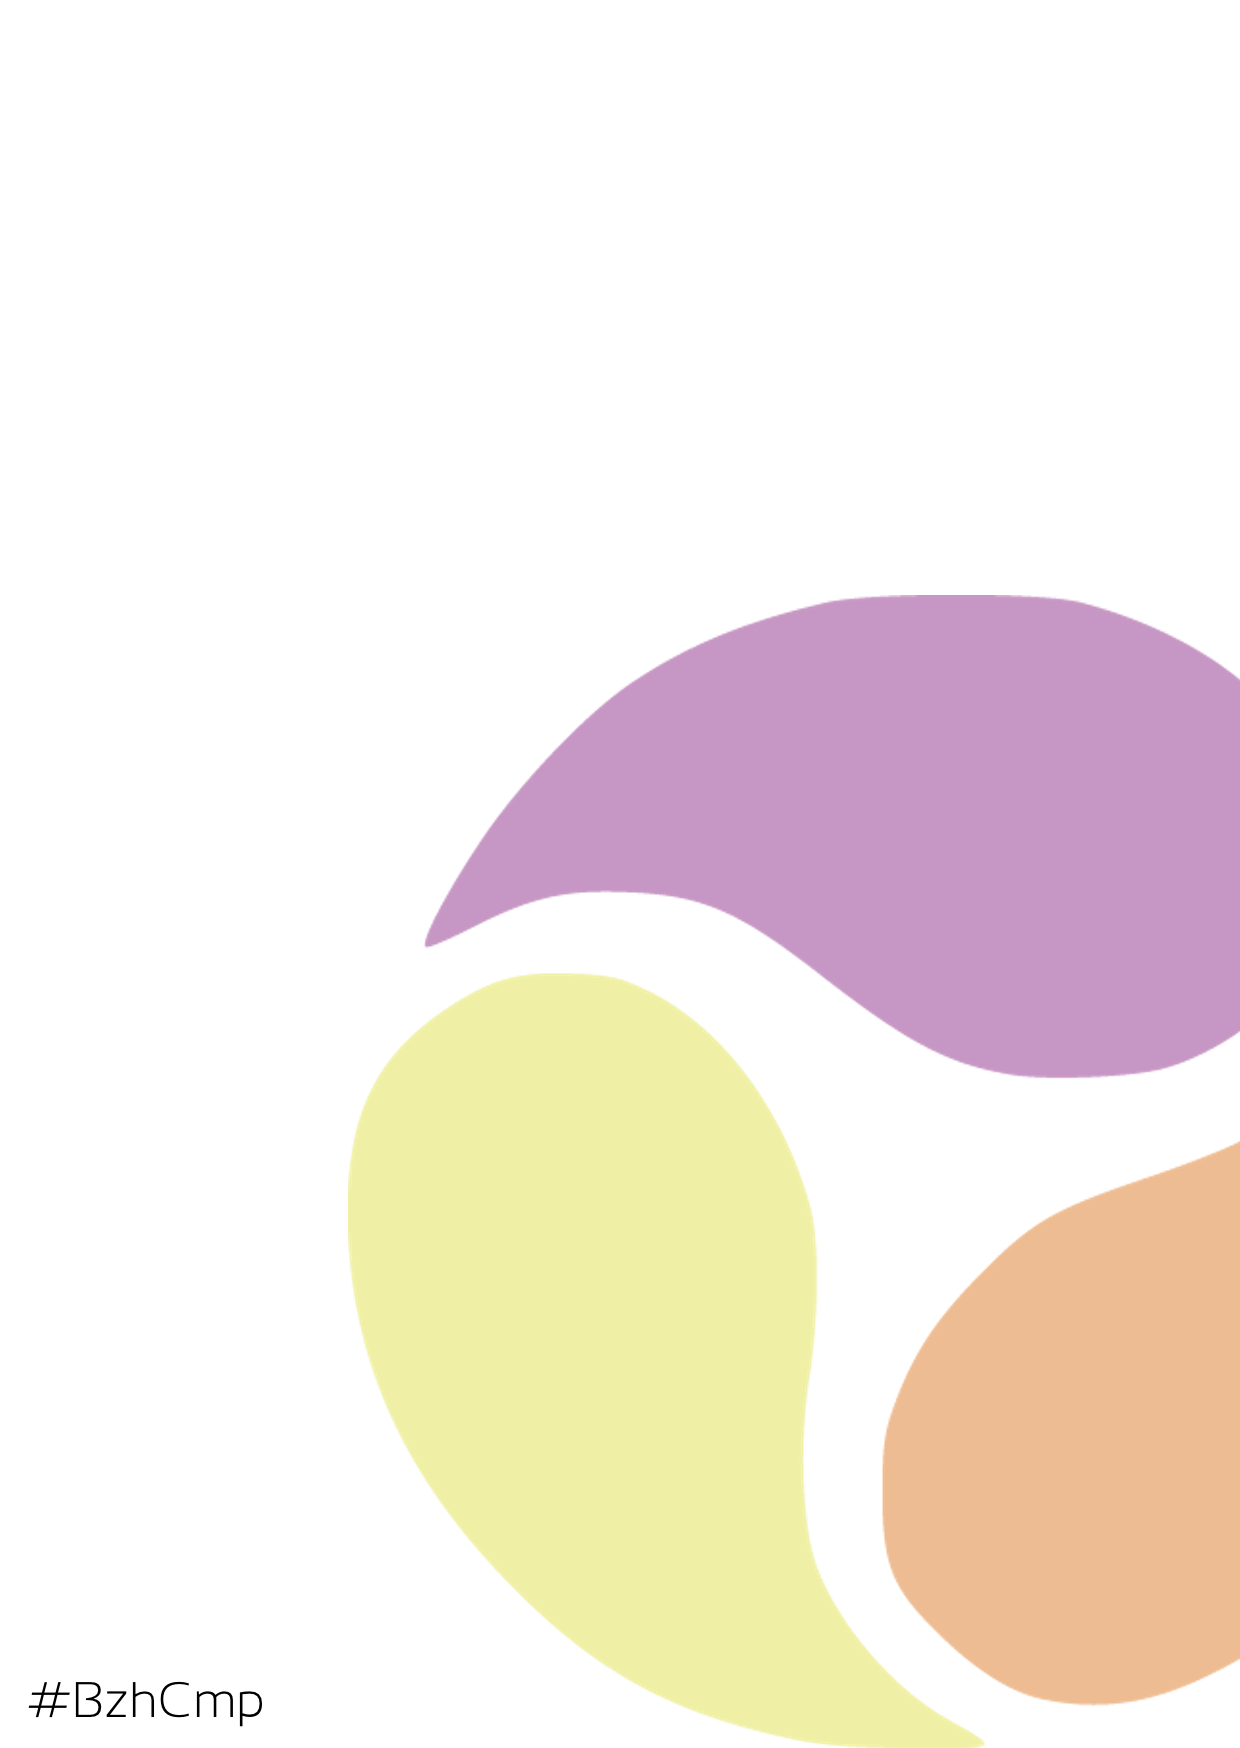
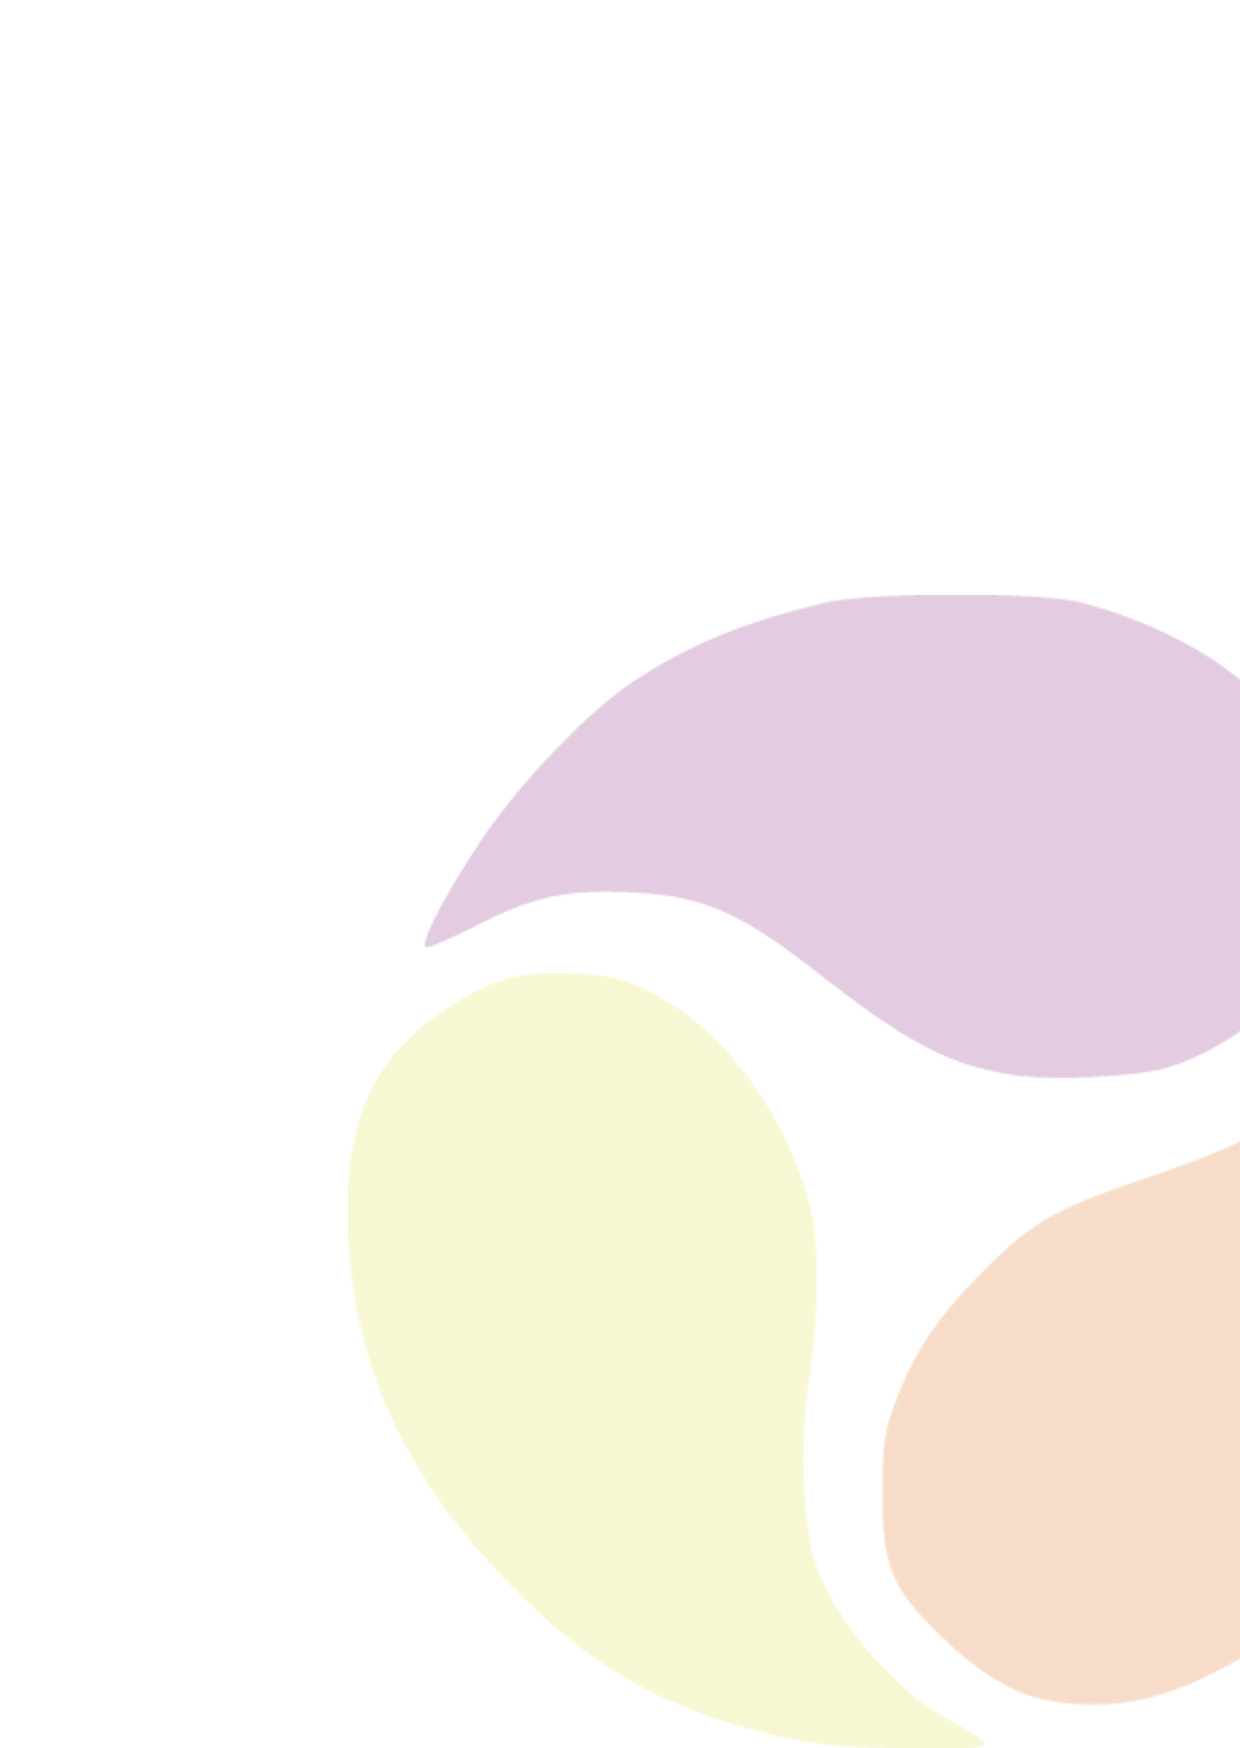
Éclaircissement du fond Ajout des durées des talks

diff --git a/themes/hugo-universal-theme/layouts/pdf/single.html b/themes/hugo-universal-theme/layouts/pdf/single.html
@@ -58,12 +58,13 @@
                     layout: 'portrait',
                     margins: 5
                 });
-                var a6Widht = 297.64;
+                var a6Widht = 297.64,
+                    a6Height = 419.53;
                 var stream = doc.pipe(blobStream());
                 var iframe = document.getElementById('pdfSchedule');
 
                 var dayFormat = 'dddd',
-                    timeFormat = 'HH:mm';
+                    timeFormat = 'H:mm';
 
                 doc.font('Helvetica');
 
@@ -114,14 +115,25 @@
                         return moment(a, timeFormat).isBefore(moment(b, timeFormat)) ? -1 : 1;
                     }).forEach(function(time) {
                         var slot = daySchedule[time];
-                        doc.font('Helvetica-Bold').moveDown(0.5).text(time, 10);
-                        slot.forEach(function(event) {
-                            doc.font('Helvetica-Oblique').text(event.venue, 30);
+                        doc.font('Helvetica-Bold').moveDown(0.5).text(time, 5, null, {
+                            width: 20,
+                            align: 'right'
+                        });
+                        slot.forEach(function(event, index) {
+                            if (!index) {
+                                doc.moveUp();
+                            }
+                            doc.font('Helvetica-Oblique').text(event.venue, 30, null);
                             doc.font('Helvetica').text(event.name, 60, null, {
-                                width: a6Widht - 70
+                                width: a6Widht - 70,
+                                continued: true
                             });
+                            var duration = moment.duration(event.event_end.diff(event.event_start)).asMinutes();
+                            doc.fillColor('grey').text(' (' + duration + ' min)');
+                            doc.fillColor('black');
                         });
                     });
+                    doc.fontSize(13).text('#BreizhCamp', a6Widht - 90, a6Height - 20);
                 });
 
                 doc.end();
